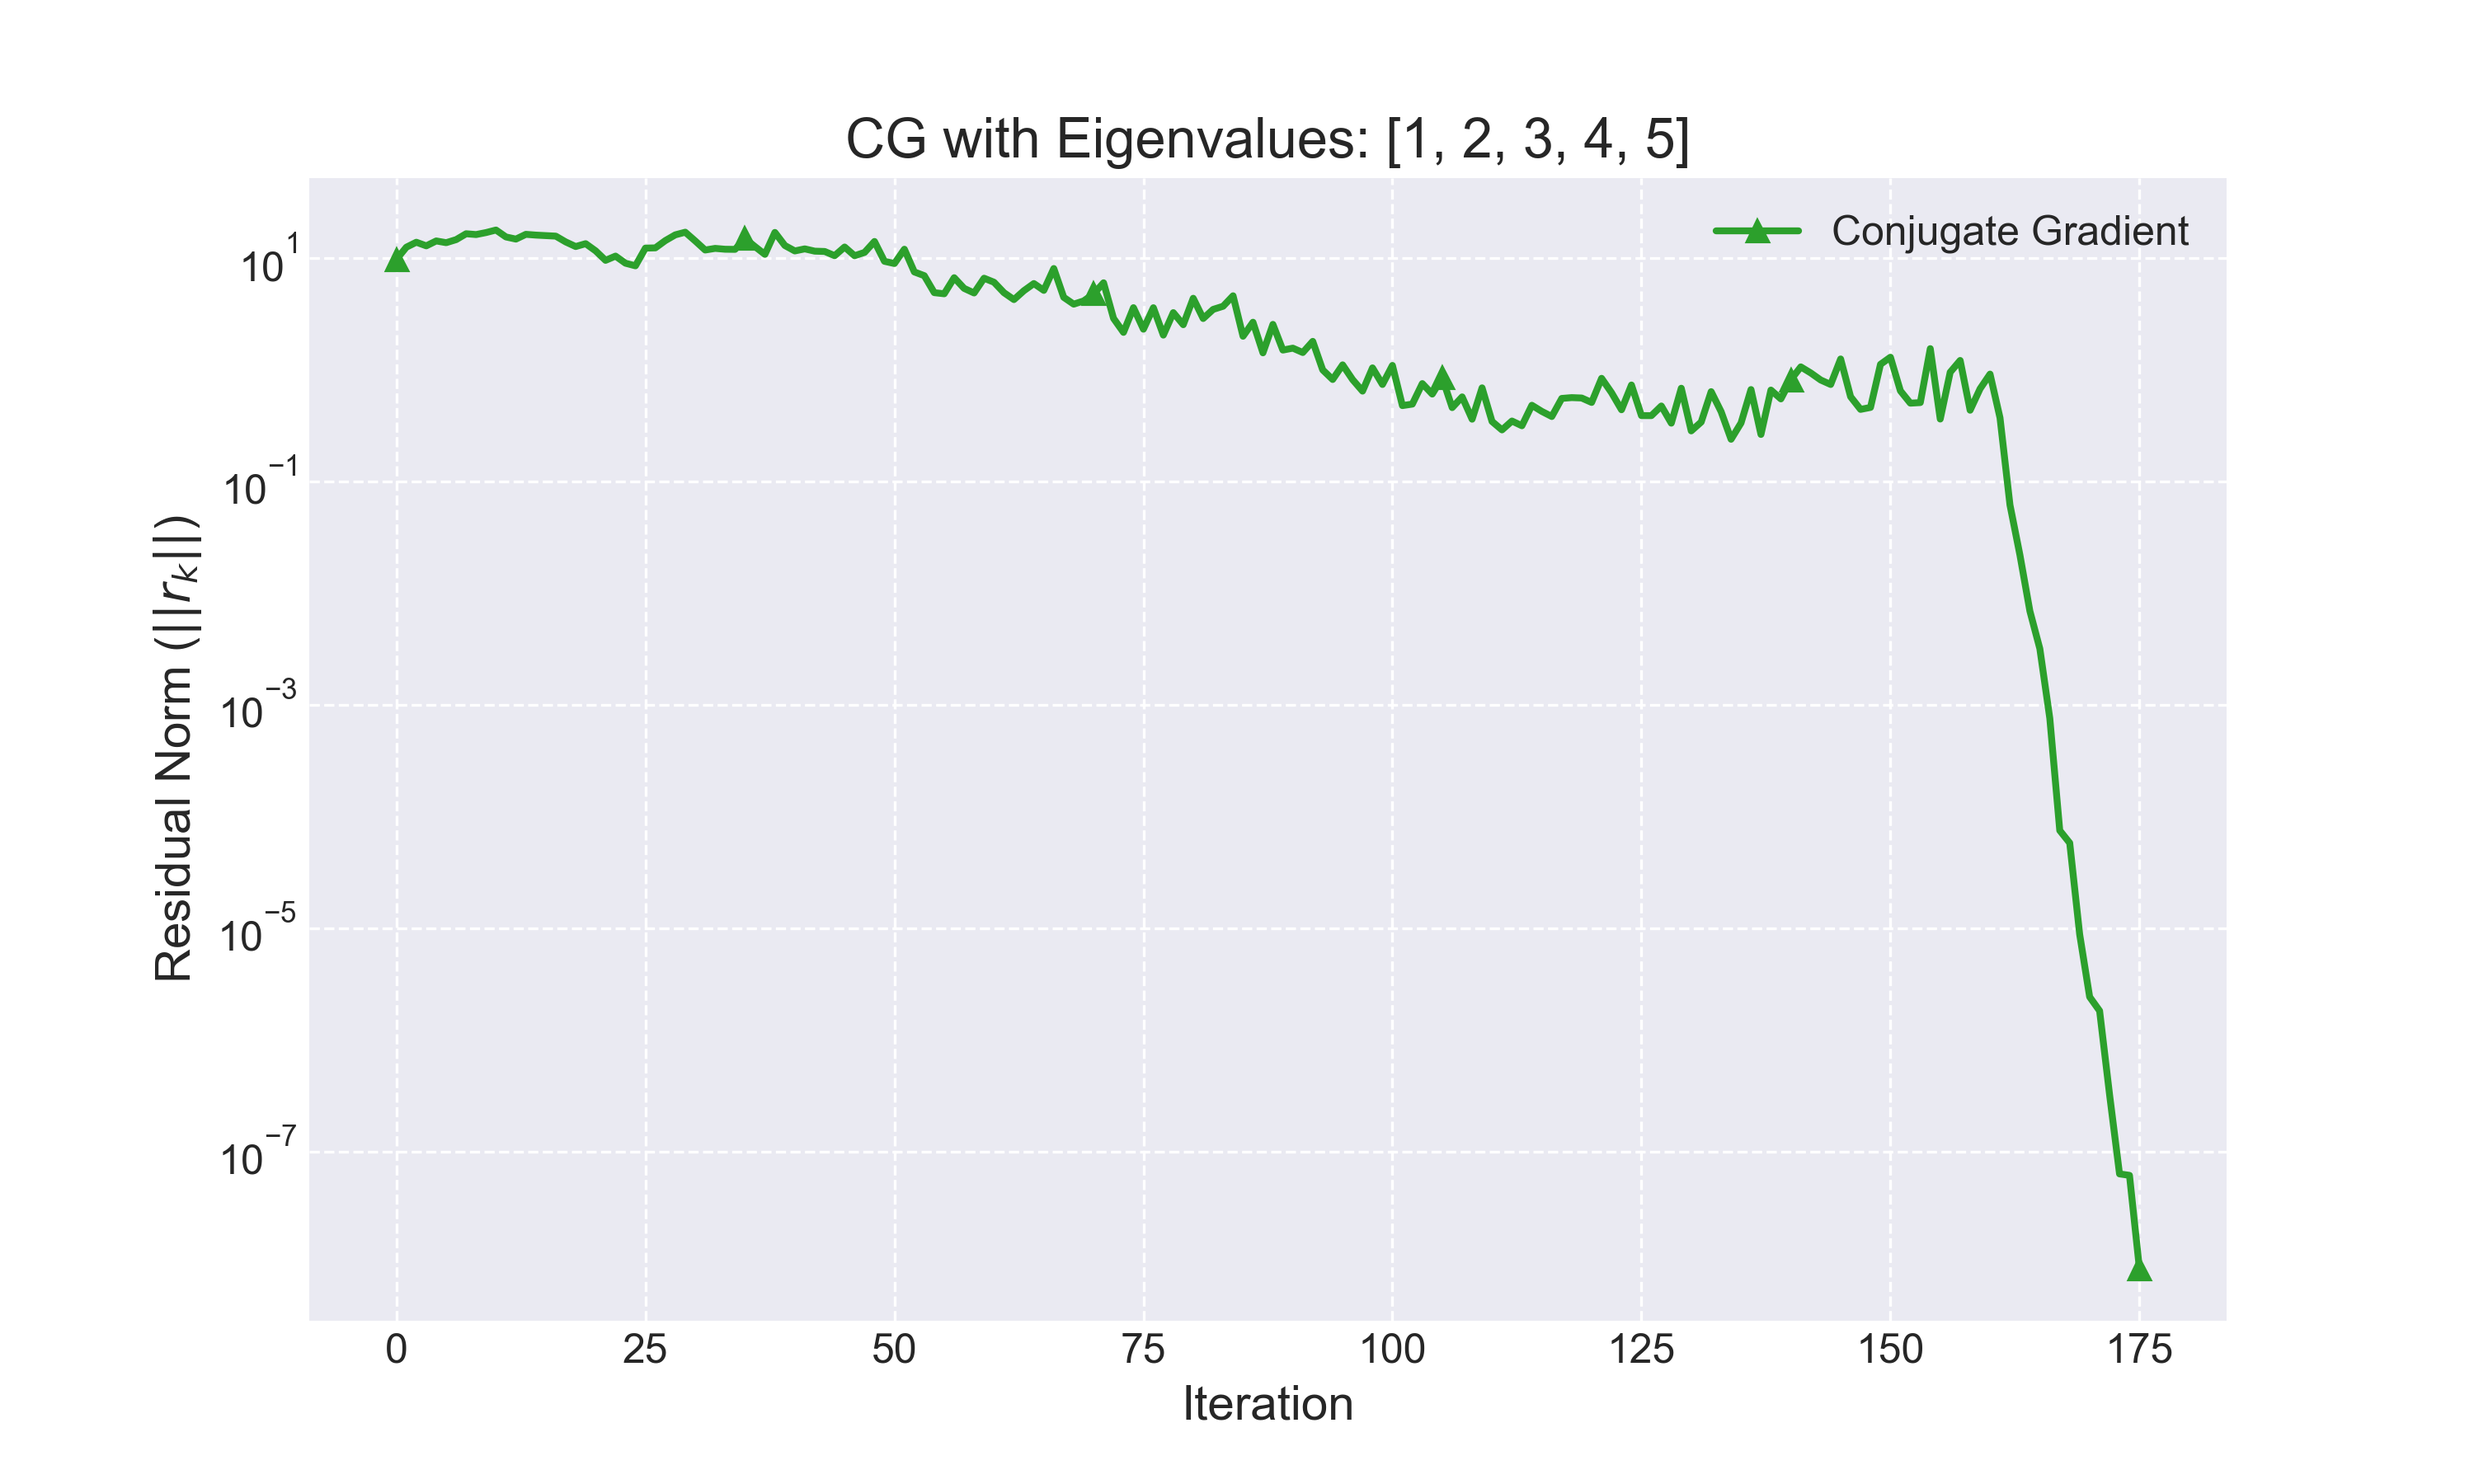
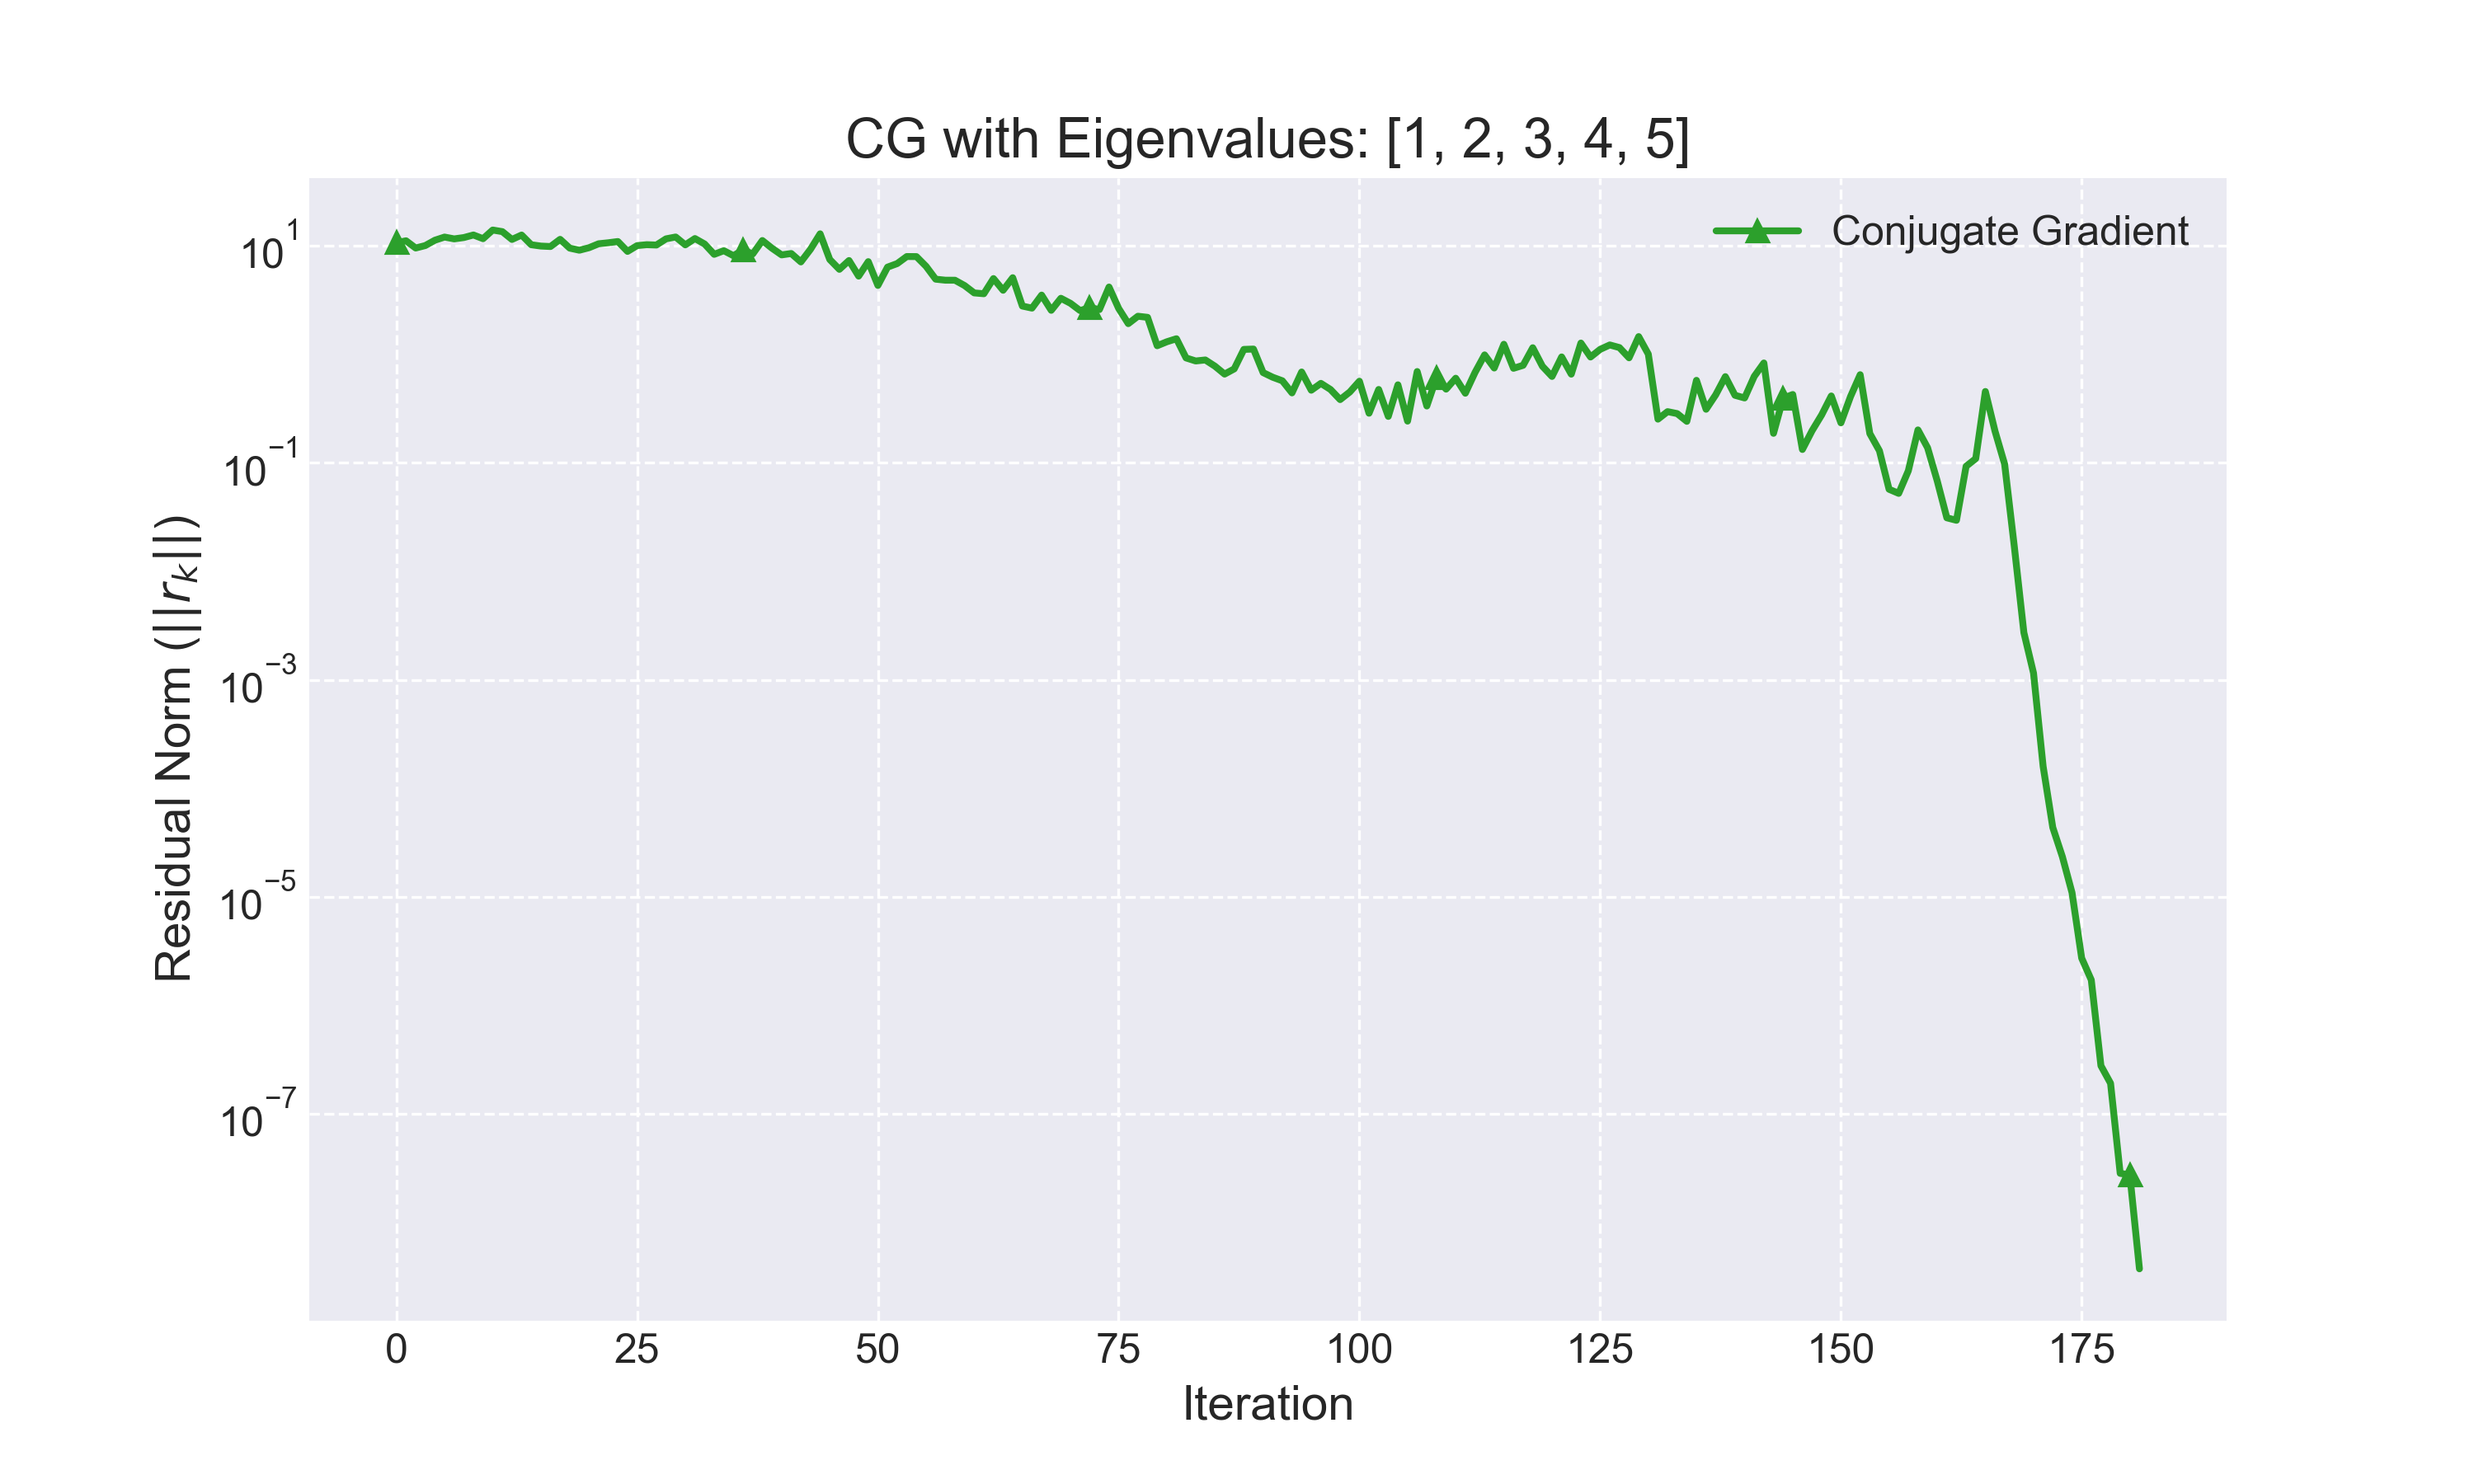
this is with CG converging in 5 but the log printing out the total number of iters. Should be right otherwise

diff --git a/Core_Functions/conjugate_gradient.py b/Core_Functions/conjugate_gradient.py
@@ -24,43 +24,54 @@ def conjugate_gradient(A: np.ndarray, b: np.ndarray, x0: np.ndarray, tolerance: 
     # Set iteration limit
     max_iter: int = max_iterations if max_iterations is not None else n
 
-    # Compute true solution (Ryan's feature)
+    # Compute true solution
     x_star: np.ndarray = np.linalg.solve(A, b)
 
     # Initialize variables
-    x: np.ndarray = x0.copy()           # Current solution
-    r: np.ndarray = b - A @ x           # Initial residual
-    p: np.ndarray = r.copy()            # Initial search direction
-    iterates: np.ndarray = np.zeros((max_iter + 1, n))  # Track all iterates (Ryan's approach)
+    x: np.ndarray = x0.copy()
+    r: np.ndarray = b - A @ x
+    p: np.ndarray = r.copy()
+    iterates: np.ndarray = np.zeros((max_iter + 1, n))
     iterates[0, :] = x
-    rTr_old: float = r @ r              # Previous residual norm squared
+    rTr_old: float = r @ r
 
     # Iteration loop
     k: int = 0
     while k < max_iter:
-        # Check residual convergence (Saptoka's standard)
         if np.linalg.norm(r) < tolerance:
             return x, iterates[:k + 1, :], k + 1, x_star
 
-        # Step size computation
-        Ap: np.ndarray = A @ p          # Matrix-vector product
-        alpha: float = rTr_old / (p @ Ap)  # Optimal step length
+        # Step size computation with numerical stability
+        Ap: np.ndarray = A @ p
+        pAp: float = p @ Ap
+        if pAp <= 0:
+            raise ValueError("A not positive-definite.")
+        alpha: float = rTr_old / pAp
 
         # Update solution and store iterate
         x = x + alpha * p
         iterates[k + 1, :] = x
 
         # Update residual
-        r = r - alpha * Ap
-        rTr_new: float = r @ r          # New residual norm squared
+        r_new: np.ndarray = r - alpha * Ap
+        rTr_new: float = r_new @ r_new
 
-        # Compute beta for next direction
-        beta: float = rTr_new / rTr_old  # Direction adjustment
-        p = r + beta * p                # Update search direction
+        # Compute beta with numerical safeguard
+        if rTr_old < 1e-15:
+            beta = 0
+        else:
+            beta = rTr_new / rTr_old
+
+        # Update direction with orthogonalization to previous direction
+        p_new = r_new + beta * p
+        # Orthogonalize p_new against previous p to reduce numerical error
+        if k > 0:
+            p_new -= (p_new @ Ap / pAp) * p
+        p = p_new
 
         # Prepare next iteration
+        r = r_new
         rTr_old = rTr_new
         k += 1
 
-    # Max iterations reached
     return x, iterates[:k + 1, :], k, x_star

diff --git a/Tests/experiments.py b/Tests/experiments.py
@@ -1,6 +1,6 @@
 import numpy as np
 import matplotlib.pyplot as plt
-from Core_Functions.spd_generate import generate_spd_matrix
+from Core_Functions.spd_matrix import generate_spd_matrix
 from Core_Functions.steepest_descent import steepest_descent
 from Core_Functions.conjugate_gradient import conjugate_gradient
 import time
@@ -55,7 +55,7 @@ def eigenvalue_test(n: int, eigenvalues: list, tolerance: float = 1e-8, max_iter
         max_iter (int): Maximum iterations.
 
     Returns:
-        Tuple: CG iterations, final residual.
+        Tuple: CG iterations at convergence, final residual at convergence.
     """
     A: np.ndarray = generate_spd_matrix(n, eigenvalues=eigenvalues)
     b: np.ndarray = np.random.randn(n)
@@ -63,8 +63,11 @@ def eigenvalue_test(n: int, eigenvalues: list, tolerance: float = 1e-8, max_iter
     x_cg, iterates_cg, iters_cg, x_star = conjugate_gradient(A, b, x0, tolerance, max_iter)
     residuals_cg: list = [np.linalg.norm(b - A @ x_k) for x_k in iterates_cg]
 
+    # Find the iteration where residual first drops below tolerance
+    actual_iters = next(i for i, res in enumerate(residuals_cg) if res < tolerance)
+
     plt.figure(figsize=(10, 6))
-    plt.semilogy(residuals_cg, label='Conjugate Gradient', color='tab:green', marker='^', markevery=max(1, iters_cg//5))
+    plt.semilogy(residuals_cg, label='Conjugate Gradient', color='tab:green', marker='^', markevery=max(1, actual_iters//5))
     plt.xlabel('Iteration')
     plt.ylabel('Residual Norm ($||r_k||$)')
     plt.title(f'CG with Eigenvalues: {eigenvalues}')
@@ -73,7 +76,7 @@ def eigenvalue_test(n: int, eigenvalues: list, tolerance: float = 1e-8, max_iter
     plt.savefig(f"cg_eig_n{n}.png", dpi=300)
     plt.close()
 
-    return iters_cg, residuals_cg[-1]
+    return actual_iters, residuals_cg[actual_iters]
 
 if __name__ == "__main__":
     # Small-scale test

diff --git a/Core_Functions/spd_matrix.py b/Core_Functions/spd_matrix.py
@@ -22,7 +22,13 @@ def generate_spd_matrix(n: int, condition_number: float = 10.0, eigenvalues: Opt
     if eigenvalues is None:
         eig_vals: np.ndarray = np.linspace(1, condition_number, n)
     else:
-        eig_vals = np.array(eigenvalues) if len(eigenvalues) >= n else np.tile(eigenvalues, (n + len(eigenvalues) - 1) // len(eigenvalues))[:n]
+        # Ensure eigenvalues are positive and exactly n in length
+        eig_vals = np.array(eigenvalues, dtype=np.float64)
+        if len(eig_vals) != n:
+            # Repeat eigenvalues to match n exactly
+            eig_vals = np.tile(eig_vals, (n // len(eig_vals)) + 1)[:n]
+        if np.any(eig_vals <= 0):
+            raise ValueError("Eigenvalues must be positive.")
     
     # Create diagonal matrix and compute A
     D: np.ndarray = np.diag(eig_vals)
